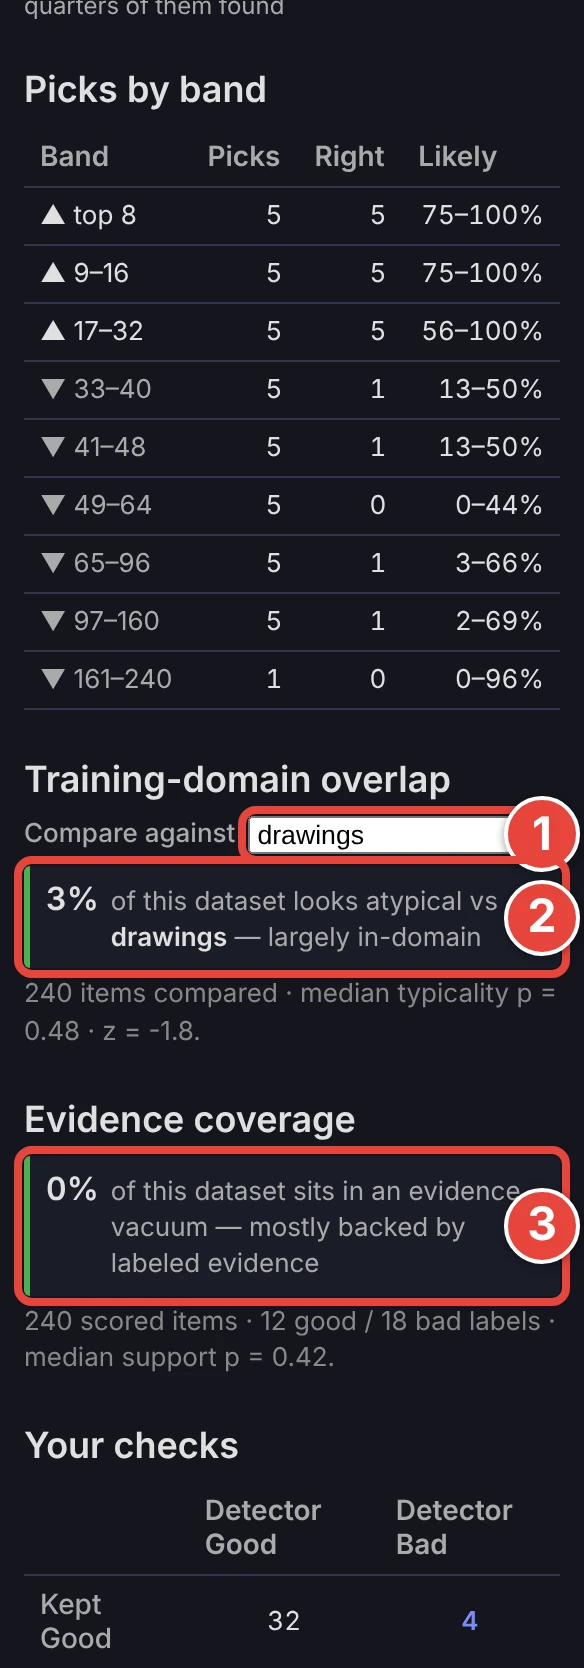
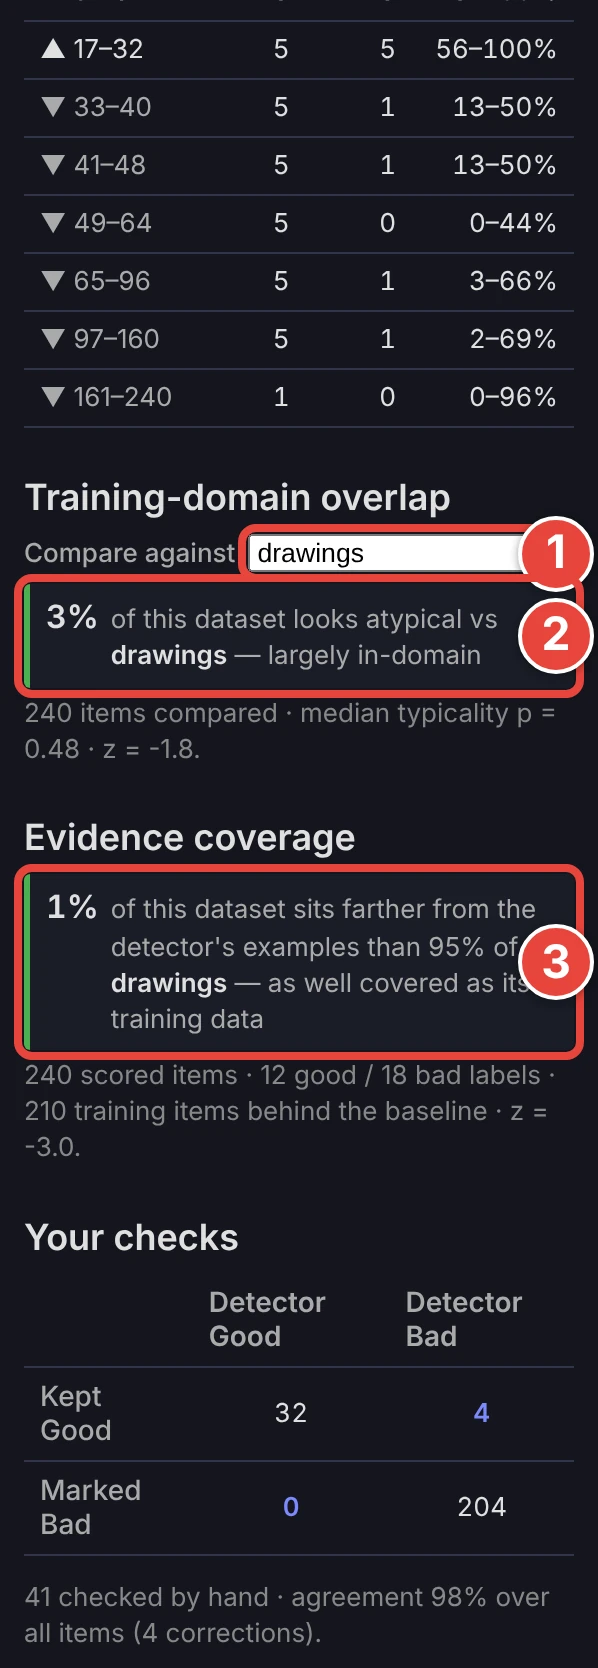
Re-shoot trust-stats with the Evidence chip's training baseline
The Evidence chip now reads its verdict against drawings, as the how-to
describes. Its figure in the shot is 1%, so the how-to's quote follows.
Drains the 5089 and 5100 reshoot-queue entries, which named only this shot.

Closes #5162

Claude-Session: https://claude.ai/code/session_018QX9SQXYw2cNsrsz8SuDsf

Changed region(s): [[0.0, 0.0, 1.0, 0.9976]]

diff --git a/docs/user/howto/trust-a-detector.md b/docs/user/howto/trust-a-detector.md
@@ -36,10 +36,10 @@ the result carries:
    **drawings** — largely in-domain".
 3. **Evidence coverage** says how much of the dataset sits farther from the
    detector's labelled examples than 95% of the dataset it was trained on
-   does: "**5%** of this dataset sits farther from the detector's examples
+   does: "**1%** of this dataset sits farther from the detector's examples
    than 95% of **drawings** — as well covered as its training data". About
-   5% is what the training data itself reads, so 5% means the detector
-   knows these pictures as well as the ones it learned from. When the
+   5% is what the training data itself reads, so 1% means the detector
+   knows these pictures at least as well as the ones it learned from. When the
    detector has no record of its training data to measure against (see
    below), the chip shows the share of the dataset in an evidence vacuum,
    "no verdict until you run Tune on the dataset the detector was trained
